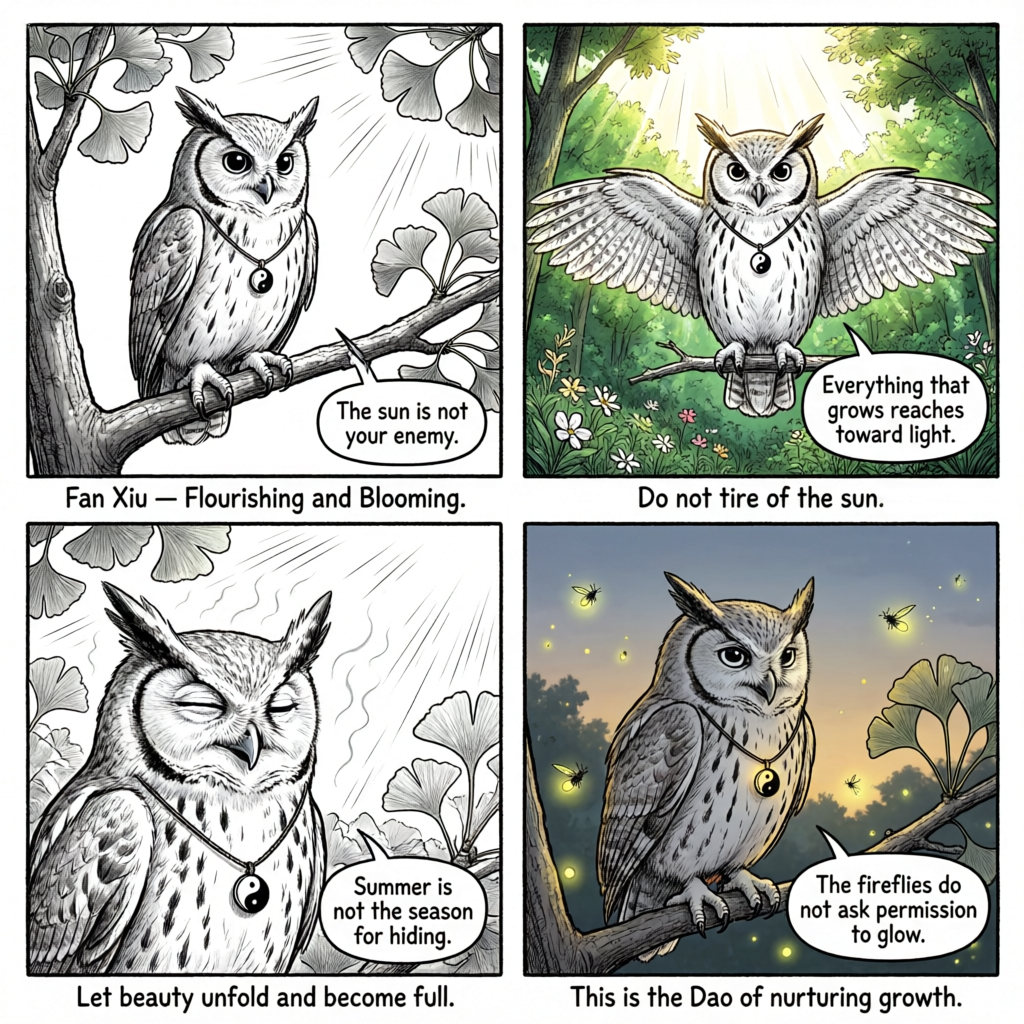
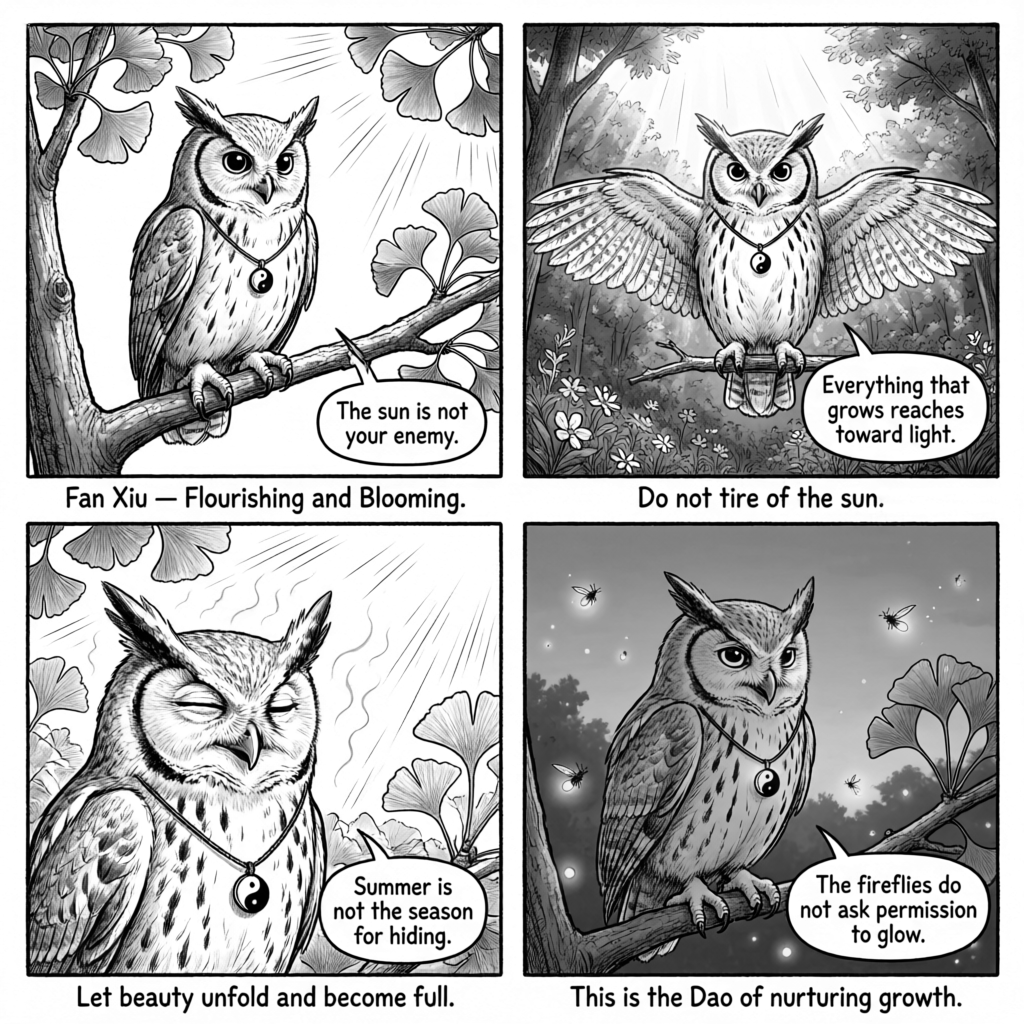
fix: RSS add #40/#41 + repair nested item structure; grayscale comics 40/41; fix datePublished ISO format; about.html rhythm wording

diff --git a/about.html b/about.html
@@ -128,7 +128,7 @@ var _hmt = _hmt || [];
 
 <h2>What You Can Expect</h2>
 
-<p>This is not a serious academic blog. It is a casual, personal space where I share whatever comes to mind. New articles appear every Tuesday and Thursday — but the topics are whatever catches my eye, with no rigid formula. The goal is simple: make Chinese medicine and culture approachable, interesting, and maybe even fun.</p>
+<p>This is not a serious academic blog. It is a casual, personal space where I share whatever comes to mind. New articles appear every Tuesday and Thursday, following a consistent publishing rhythm — but the topics are whatever catches my eye. The goal is simple: make Chinese medicine and culture approachable, interesting, and maybe even fun.</p>
 
 <p>Some days I will share a single thought — a sentence or two sparked by daily life. On a quiet weekend, I might write something longer, diving into a classic text or a piece of TCM knowledge that fascinates me. Sometimes I will simply document my own re-learning journey, picking up where I left off years ago and starting again from the basics.</p>
 

diff --git a/posts/40-spring-neijing-reinvention.html b/posts/40-spring-neijing-reinvention.html
@@ -224,7 +224,7 @@ This is one of the most beautiful lines. In ancient China, hair was often pinned
   "headline": "What a 2,000-Year-Old Springtime Guide Can Teach You About Reinvention",
   "description": "The Huangdi Neijings Spring Chapter mapped renewal 2000 years ago — and its advice about going to bed late, rising early, and letting your hair down is startlingly relevant to our burnout culture.",
   "image": "https://tcmway.net/images/comic-40-bw.png",
-  "datePublished": "July 28, 2026T08:00:00+08:00",
+  "datePublished": "2026-07-28",
   "dateModified": "July 28, 2026T08:00:00+08:00",
   "author": {"@type": "Person", "name": "Ollie"},
   "url": "https://tcmway.net/posts/40-spring-neijing-reinvention.html"

diff --git a/posts/41-why-the-ancients-said-dont-hate-the-sun.html b/posts/41-why-the-ancients-said-dont-hate-the-sun.html
@@ -218,7 +218,7 @@
   "headline": "Why the Ancients Said "Don't Hate the Sun" — and What We Lost When We Started Hiding From It",
   "description": "The Huangdi Neijing's Summer Chapter says "do not tire of the sun." Two thousand years later, modern science is proving the ancients right about sunlight, circadian rhythm, and why hiding from summer hurts more than it helps.",
   "image": "https://tcmway.net/images/comic-41-bw.png",
-  "datePublished": "July 31, 2026T08:00:00+08:00",
+  "datePublished": "2026-07-31",
   "dateModified": "July 31, 2026T08:00:00+08:00",
   "author": {"@type": "Person", "name": "Ollie"},
   "url": "https://tcmway.net/posts/41-why-the-ancients-said-dont-hate-the-sun.html"
